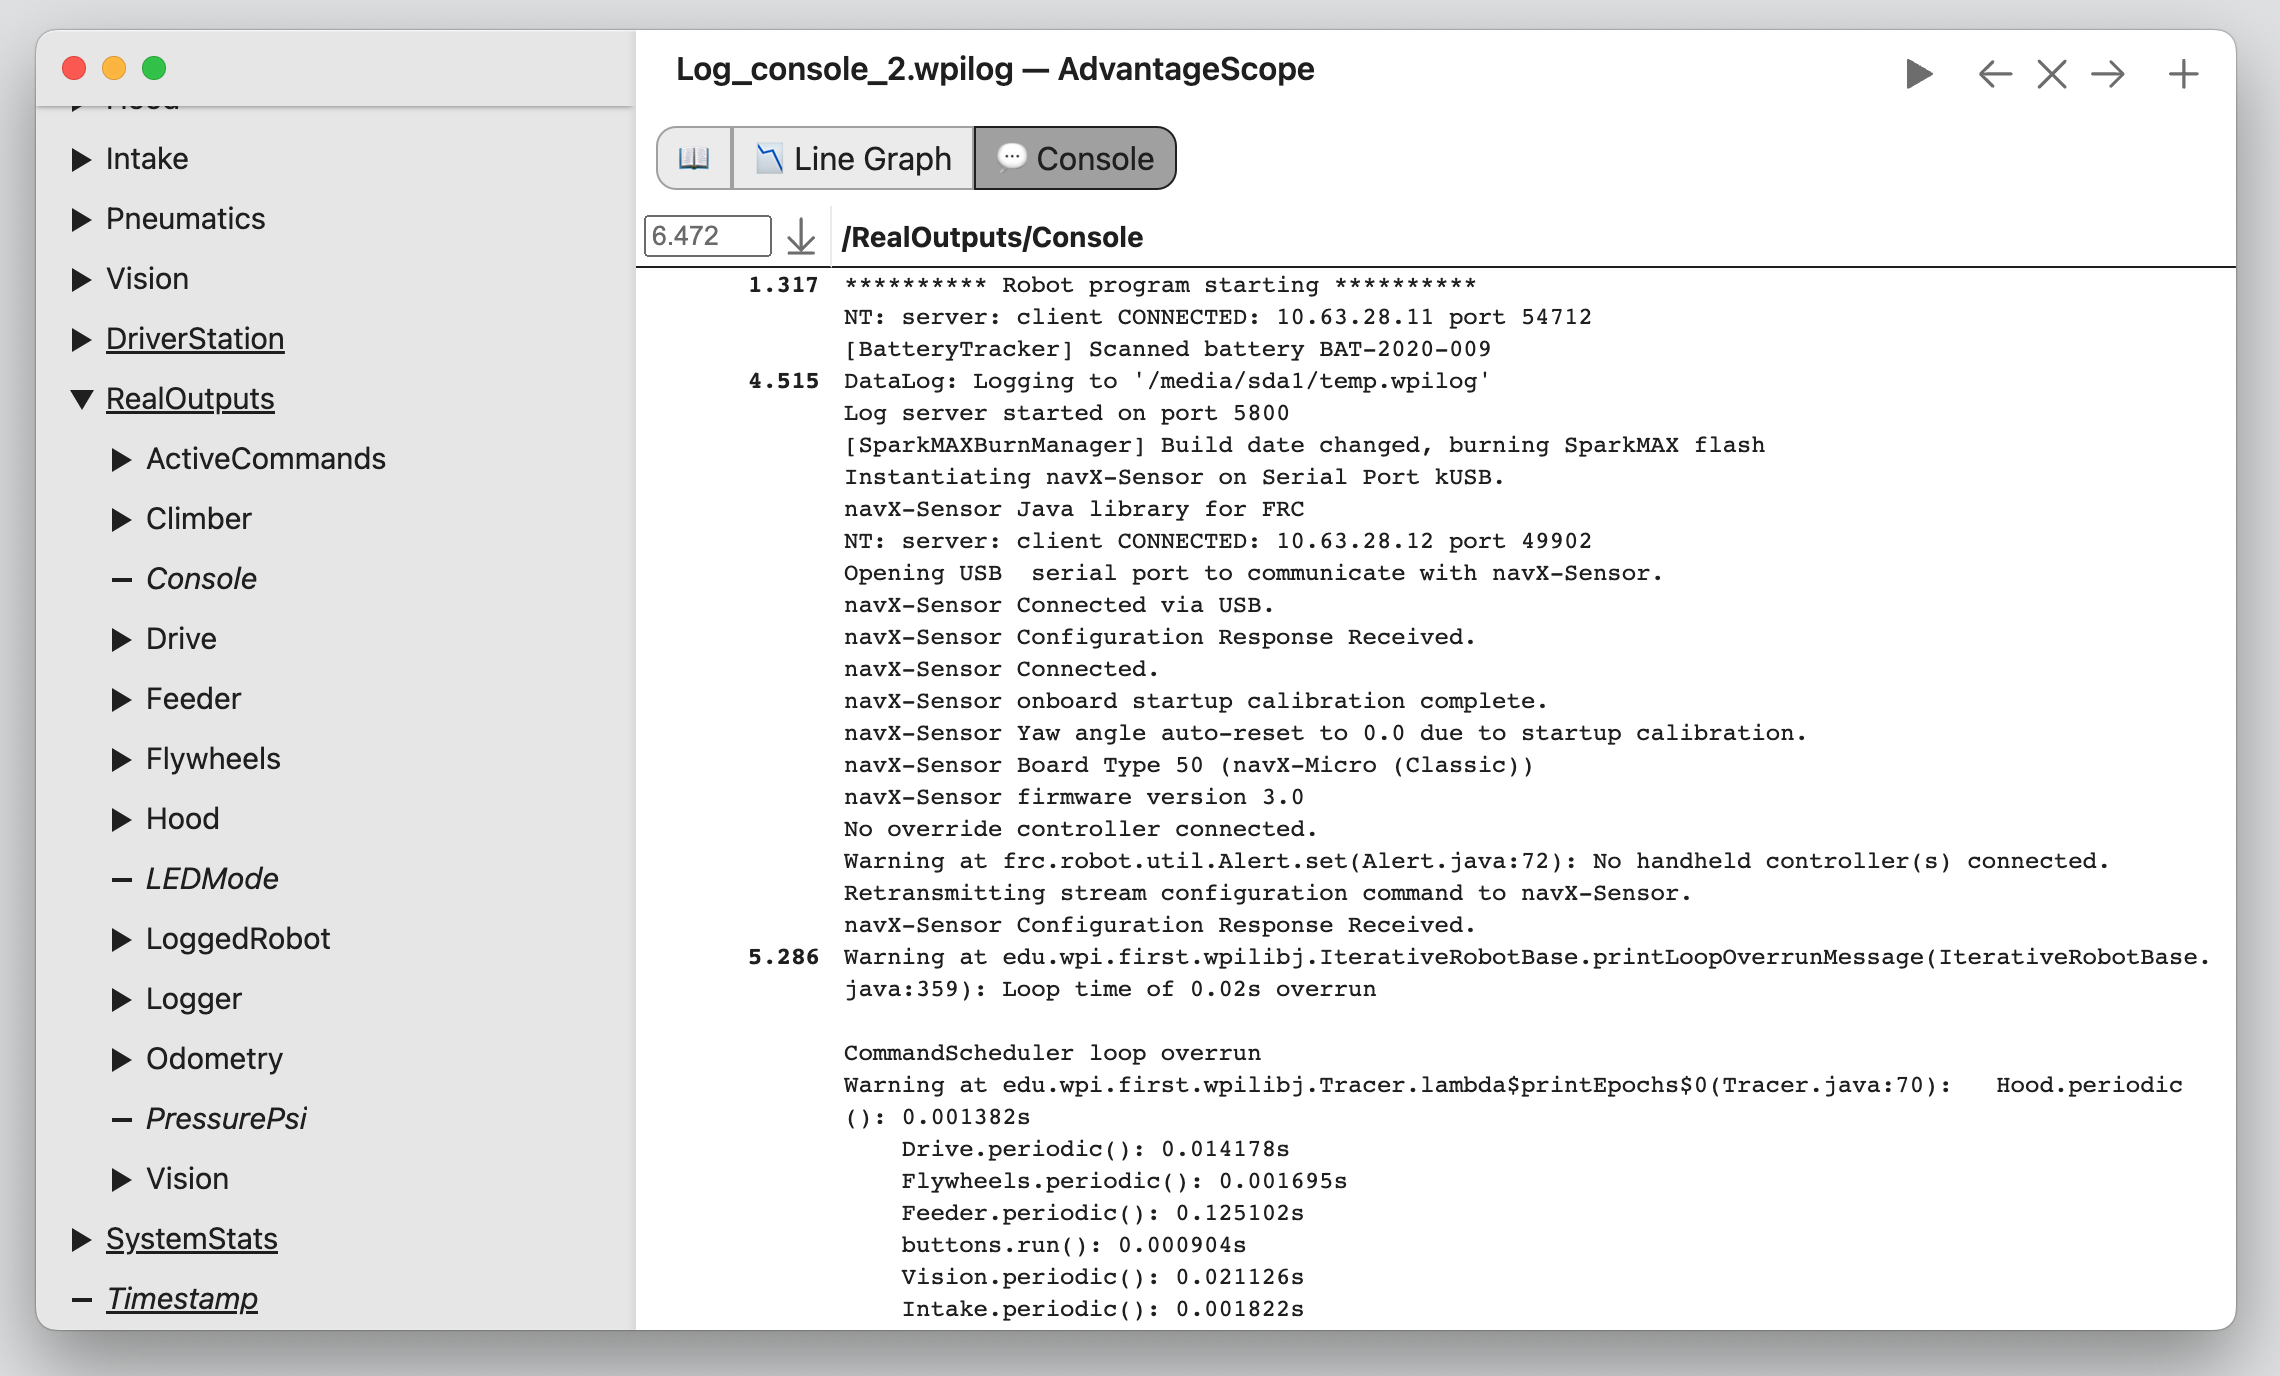
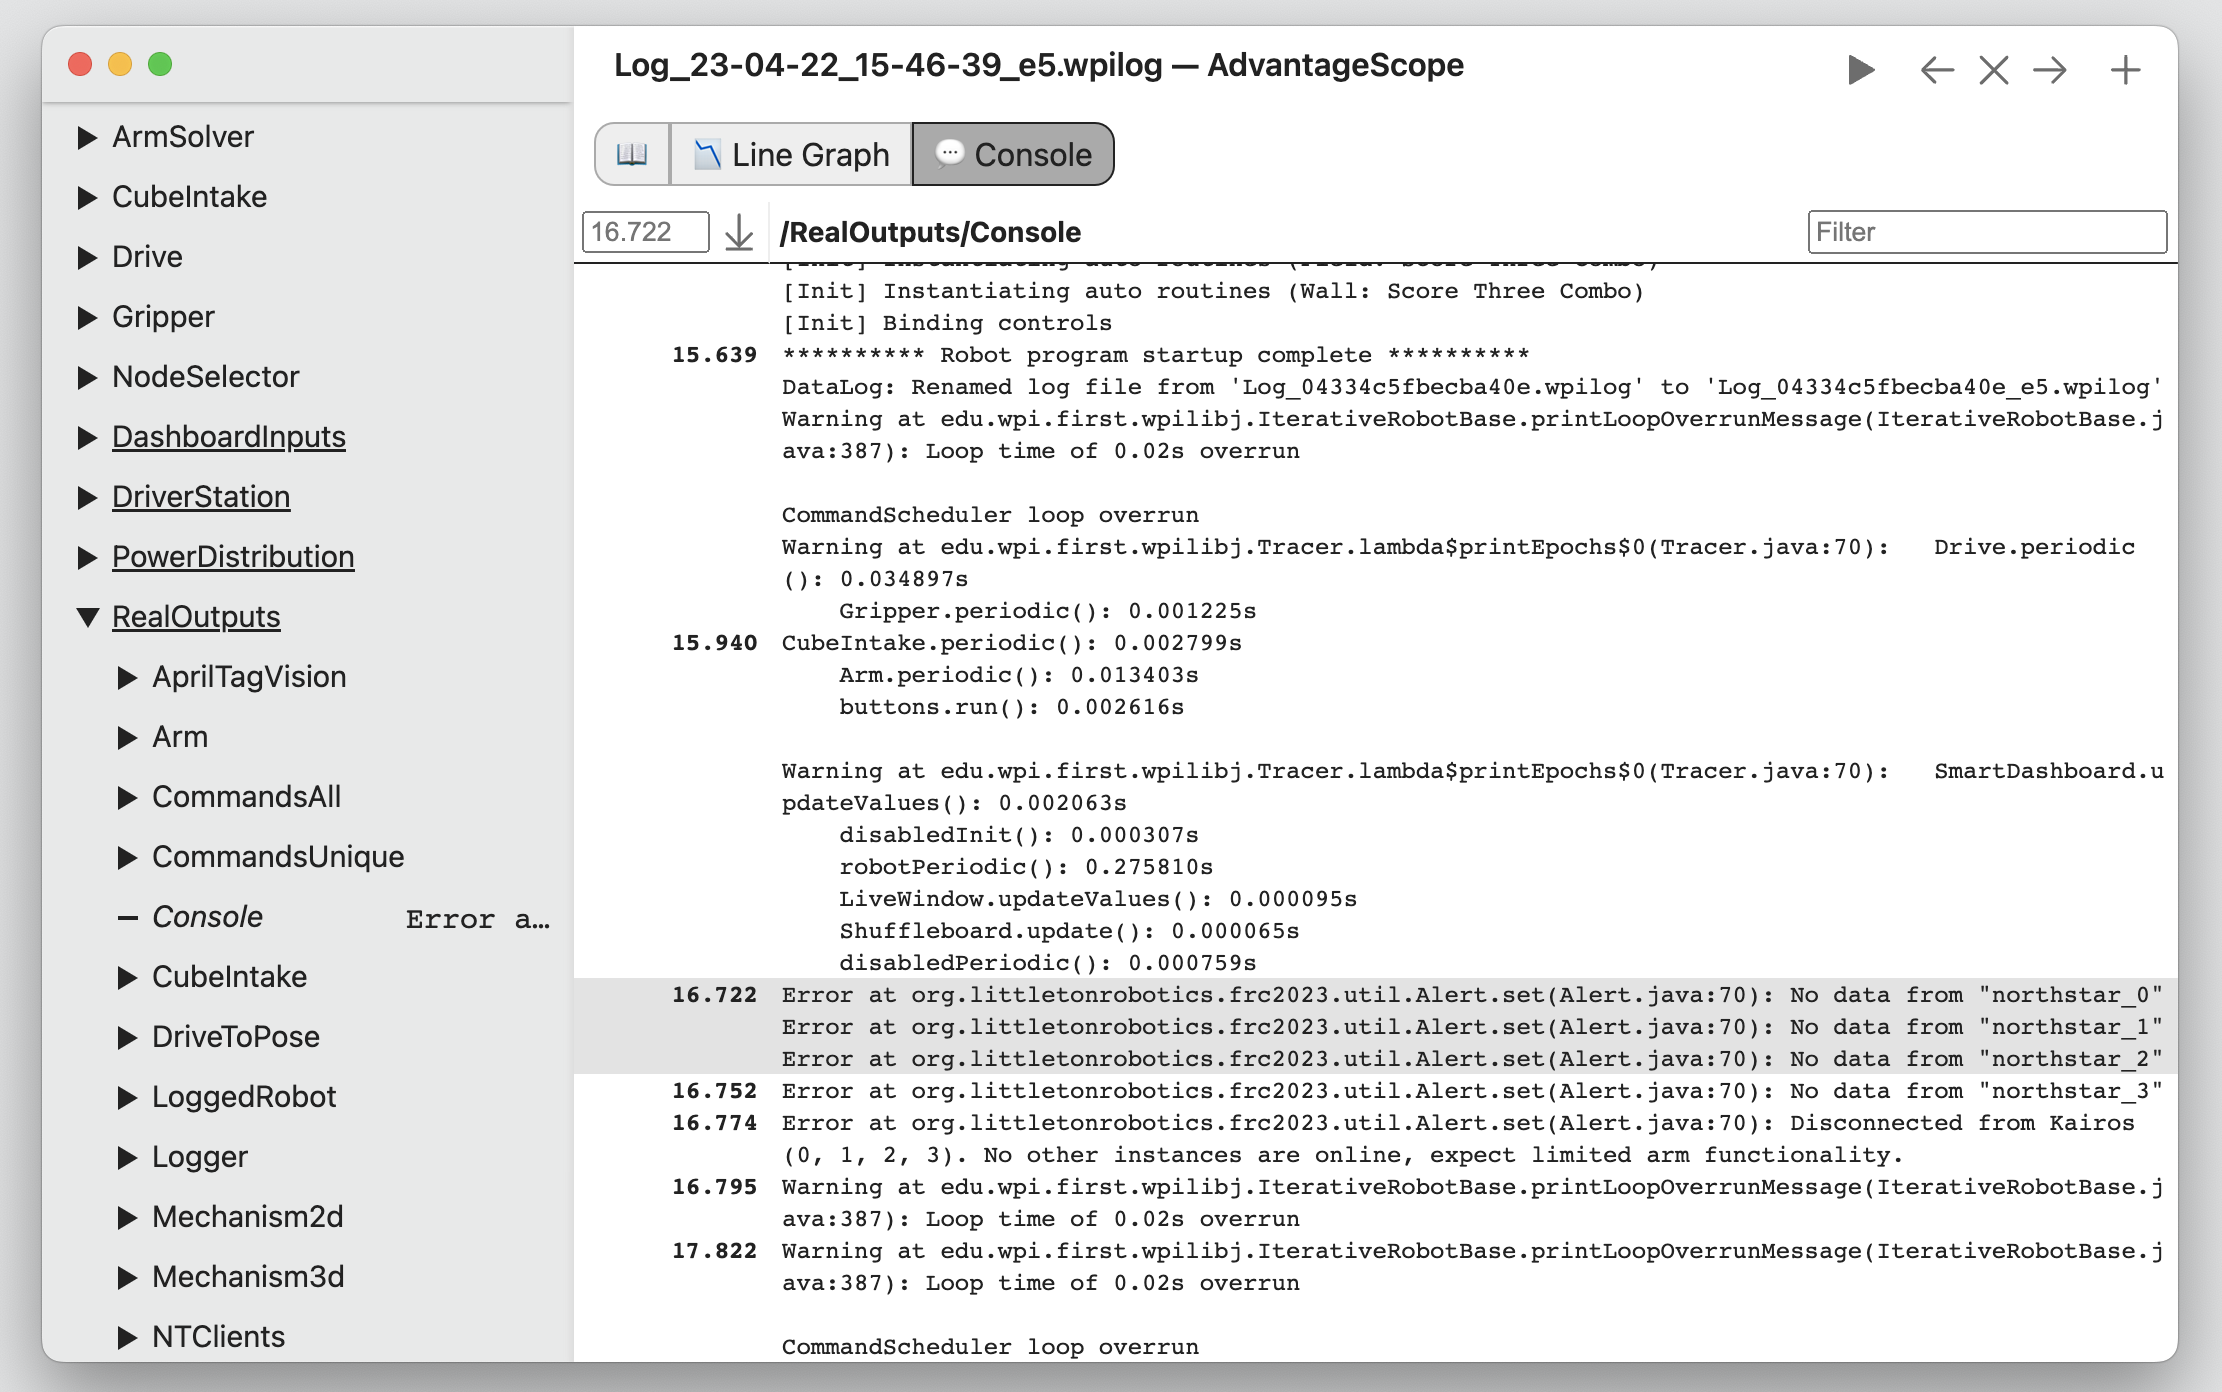
Add filter option to console tab (#41)
Also adjusts the colors of hovered and selected rows to improve readability

diff --git a/src/hub/tabControllers/ConsoleController.ts b/src/hub/tabControllers/ConsoleController.ts
@@ -13,6 +13,7 @@ export default class ConsoleController implements TabController {
   private TABLE_BODY: HTMLElement;
   private JUMP_INPUT: HTMLInputElement;
   private JUMP_BUTTON: HTMLInputElement;
+  private FILTER_INPUT: HTMLInputElement;
   private FIELD_CELL: HTMLElement;
   private FIELD_TEXT: HTMLElement;
 
@@ -30,6 +31,7 @@ export default class ConsoleController implements TabController {
     this.TABLE_BODY = this.TABLE_CONTAINER.firstElementChild?.firstElementChild as HTMLElement;
     this.JUMP_INPUT = this.TABLE_BODY.firstElementChild?.firstElementChild?.firstElementChild as HTMLInputElement;
     this.JUMP_BUTTON = this.TABLE_BODY.firstElementChild?.firstElementChild?.lastElementChild as HTMLInputElement;
+    this.FILTER_INPUT = this.TABLE_BODY.firstElementChild?.lastElementChild?.lastElementChild as HTMLInputElement;
     this.FIELD_CELL = this.TABLE_BODY.firstElementChild?.lastElementChild as HTMLElement;
     this.FIELD_TEXT = this.FIELD_CELL.firstElementChild as HTMLElement;
 
@@ -85,6 +87,7 @@ export default class ConsoleController implements TabController {
       if (event.code === "Enter") jump();
     });
     this.JUMP_BUTTON.addEventListener("click", jump);
+    this.FILTER_INPUT.addEventListener("input", () => this.updateData());
 
     // Update field text
     this.updateData();
@@ -158,6 +161,21 @@ export default class ConsoleController implements TabController {
     if (this.field !== null) {
       let logDataTemp = window.log.getString(this.field, -Infinity, Infinity);
       if (logDataTemp) logData = logDataTemp;
+    }
+    const filter = this.FILTER_INPUT.value.toLowerCase();
+    if (filter.length > 0) {
+      let filteredLogData: LogValueSetString = {
+        timestamps: [],
+        values: []
+      };
+      for (let i = 0; i < logData.timestamps.length; i++) {
+        let value = logData.values[i];
+        if (value.toLowerCase().includes(filter)) {
+          filteredLogData.timestamps.push(logData.timestamps[i]);
+          filteredLogData.values.push(value);
+        }
+      }
+      logData = filteredLogData;
     }
 
     // Clear extra rows

diff --git a/www/hub.css b/www/hub.css
@@ -1222,12 +1222,40 @@ table.console-table th:first-child button {
 }
 
 table.console-table th:not(:first-child) {
+  border-right: none;
+}
+
+table.console-table th:not(:first-child) div {
+  position: absolute;
+  left: 0px;
+  top: 0px;
+  height: 30px;
+  right: 200px;
   padding-left: 5px;
   overflow: hidden;
   font-size: 14px;
+  line-height: 30px;
   text-align: left;
-  border-right: none;
   white-space: nowrap;
+}
+
+table.console-table th:not(:first-child) input {
+  position: absolute;
+  top: 50%;
+  right: 5px;
+  height: 15px;
+  width: 180px;
+  padding-top: 9px;
+  padding-bottom: 9px;
+  transform: translateY(-50%);
+}
+
+table.console-table th:not(:first-child) input::-webkit-search-cancel-button {
+  -webkit-appearance: none;
+  height: 1em;
+  width: 1em;
+  background: url("symbols/xmark.circle.fill.svg") no-repeat 50% 50%;
+  background-size: contain;
 }
 
 table.console-table td {
@@ -1254,11 +1282,11 @@ table.console-table td:last-child {
 }
 
 table.console-table tr.hovered td {
-  background-color: #ddd;
+  background-color: #eee;
 }
 
 table.console-table tr.selected td {
-  background-color: #aaa;
+  background-color: #e3e3e3;
 }
 
 @media (prefers-color-scheme: dark) {
@@ -1273,11 +1301,11 @@ table.console-table tr.selected td {
   }
 
   table.console-table tr.hovered td {
-    background-color: #444;
+    background-color: #333;
   }
 
   table.console-table tr.selected td {
-    background-color: #777;
+    background-color: #3e3e3e;
   }
 }
 

diff --git a/www/hub.html b/www/hub.html
@@ -206,7 +206,8 @@
                       </button>
                     </th>
                     <th>
-                      <span>&lt;Drag Here&gt;</span>
+                      <div>&lt;Drag Here&gt;</div>
+                      <input type="search" placeholder="Filter" />
                     </th>
                   </tr>
                 </tbody>

diff --git a/docs/tabs/CONSOLE.md b/docs/tabs/CONSOLE.md
@@ -13,4 +13,4 @@ Drag the desired field to the main view to get started. Each row represents an u
 
 ![Console view](/docs/resources/console/console-1.png)
 
-The controls are identical to the 🔢 [Table](/docs/tabs/TABLE.md) tab. The selected time is synchronized across all tabs. Click a row to select it, or hover over a row to preview it in any visible pop-up windows. Clicking the ↓ button jumps to the selected time (or the time entered in the box).
+The controls are similar to the 🔢 [Table](/docs/tabs/TABLE.md) tab. The selected time is synchronized across all tabs. Click a row to select it, or hover over a row to preview it in any visible pop-up windows. Clicking the ↓ button jumps to the selected time (or the time entered in the box). Enter text in the "Filter" input to only display rows which contain the filter text.
